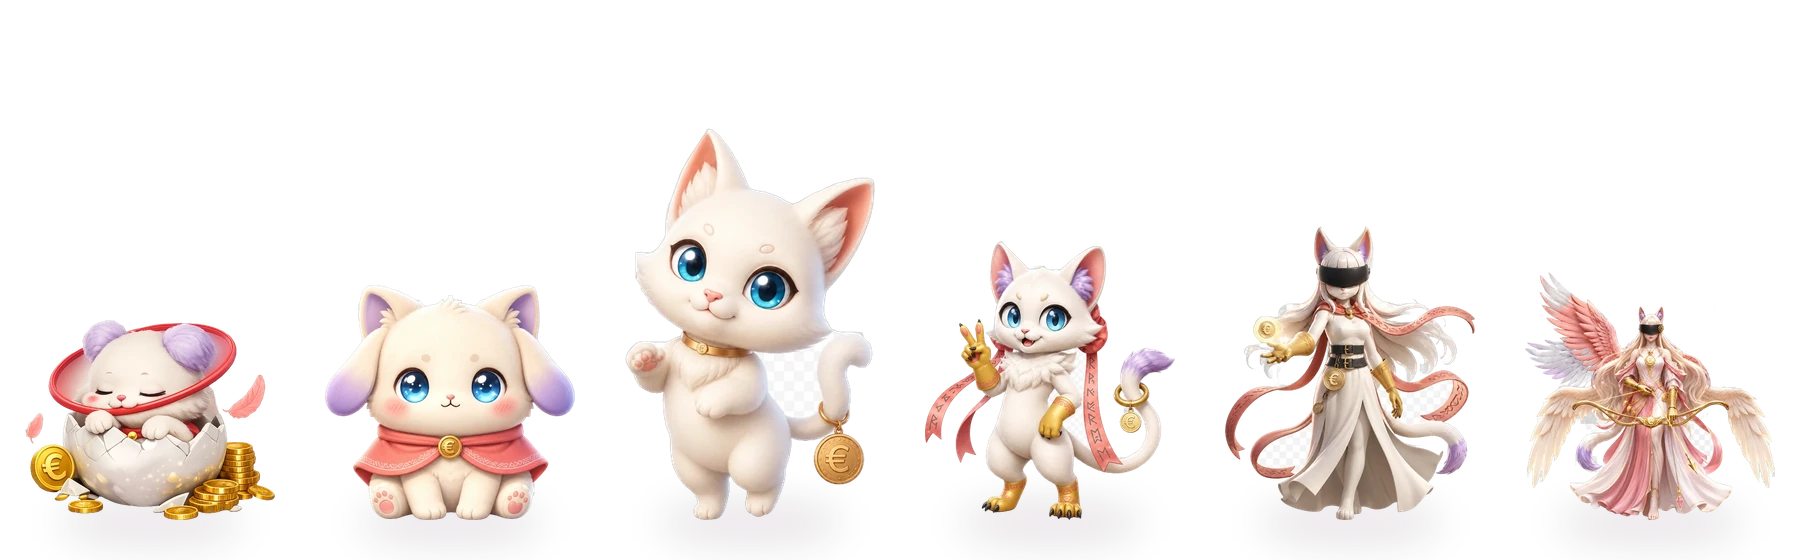
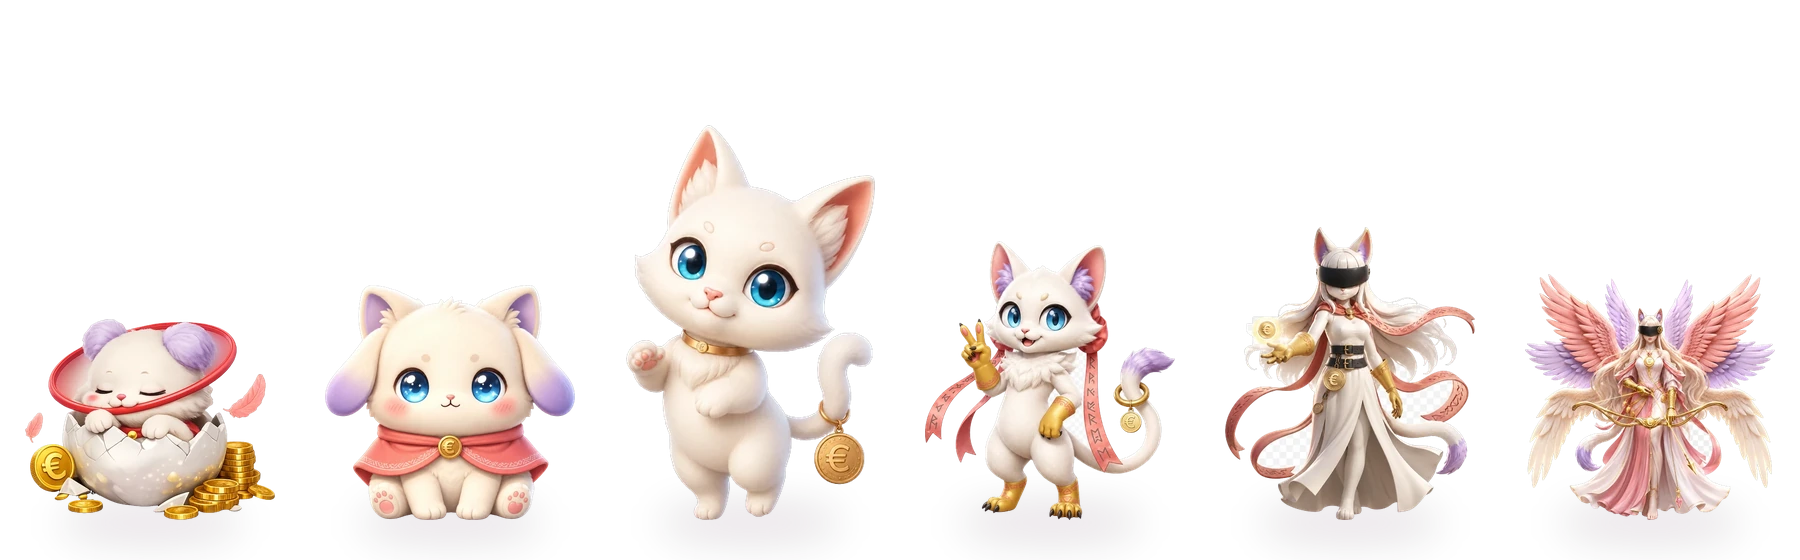
fix(brand): re-cut mascots with birefnet — kills white checkerboard remnants
The white patches below the wings (and elsewhere on all 4 mid Voltix evos +
Penny) were checkerboard-background pixels the isnet model absorbed at the wing
edges. They were CONNECTED to the subject and the same colour as the legit white
belly, so no hole-fill / connected-component / colour rule could remove them
(confirmed: single connected component).

Switched the cut to the birefnet-general model (much cleaner edge segmentation
on these fake-transparency sources) + the same core-solid belly fill + outer-edge
de-fringe. Verified on navy AND black: solid bellies, no white remnants, no
fringe. Sheets rebuilt from the corrected individuals.

Bumped MASCOT_ASSET_VER 4→5 so the re-cut WebPs bypass cache.

diff --git a/src/components/landing/LandingMascotShowcase.tsx b/src/components/landing/LandingMascotShowcase.tsx
@@ -53,7 +53,7 @@ function EvoRow({
             <div key={evo} className="text-center">
               <div className="relative w-full aspect-square bg-gradient-to-b from-white/5 to-transparent rounded-xl flex items-center justify-center border border-white/5 overflow-hidden mb-1.5">
                 <Image
-                  src={`/mascot/${gender}/${evo}.webp?v=4`}
+                  src={`/mascot/${gender}/${evo}.webp?v=5`}
                   alt={t('landing.mascot.evo_alt', { name, evo, label })}
                   width={96}
                   height={96}

diff --git a/src/components/voltix/MascotCreature.tsx b/src/components/voltix/MascotCreature.tsx
@@ -45,7 +45,7 @@ interface Props {
  *  `?v=` is a cache-buster — the mascot WebPs were re-cut (clean alpha, no
  *  white fringe) but keep the same filenames, so browsers/CDN would serve the
  *  stale cached version without it. Bump the number when the art changes. */
-const MASCOT_ASSET_VER = '4'
+const MASCOT_ASSET_VER = '5'
 function assetPath(gender: MascotGender, evo: number): string {
   return `/mascot/${gender}/${evo}.webp?v=${MASCOT_ASSET_VER}`
 }
